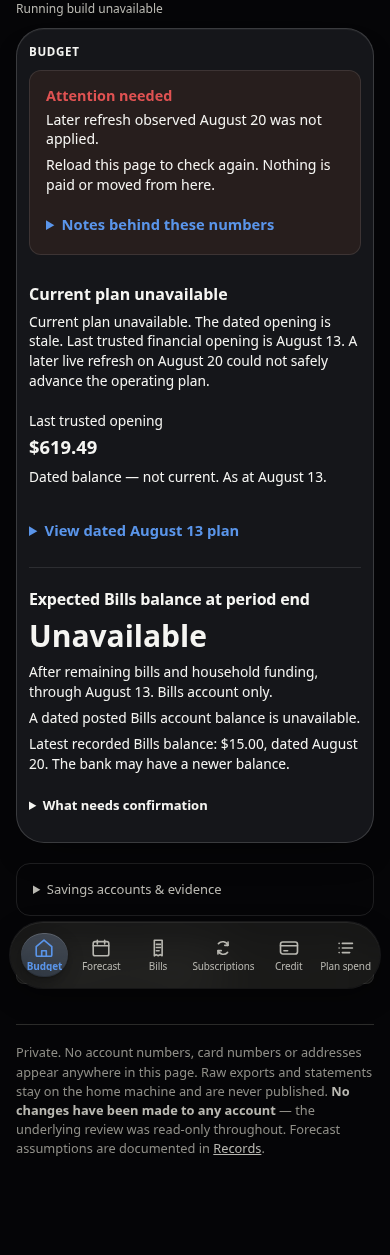
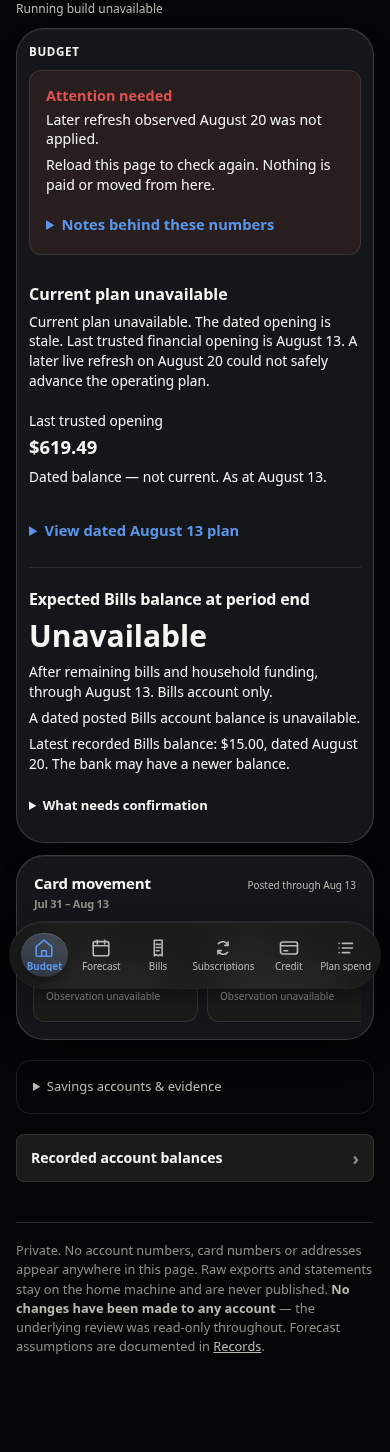
Show card movement as its own Budget bento tile.
Wrap the published strip after the hero without changing its hooks,
labels, or fail-closed wording, and record the fixture placement.

diff --git a/test/browser-budget-blend-proof.js b/test/browser-budget-blend-proof.js
@@ -51,7 +51,7 @@ const composite = (fg, bg) => {
       await page.addInitScript(chosen => {
         try { localStorage.setItem('hfd-theme', chosen); } catch (e) {}
       }, theme);
-      let data = fx.served(options || {});
+      let data = options && options.data ? options.data : fx.served(options || {});
       page.on('pageerror', err => errors.push(`${width}/${theme}: ${err.message}`));
       await page.route('**/*', route => {
         const u = new URL(route.request().url());
@@ -237,6 +237,37 @@ const composite = (fg, bg) => {
     await unavailable.close();
     await unavailableDark.close();
 
+    const cards = require('./fixtures/card-period-movements-data');
+    for (const [width, theme, file] of [
+      [1440, 'light', 'budget-blend-cards-1440-light.png'],
+      [320, 'dark', 'budget-blend-cards-320-dark.png'],
+    ]) {
+      const page = await open(width, theme, { data: cards.served() });
+      const placement = await page.evaluate(() => {
+        const strip = document.querySelector('[data-budget-card-movements]');
+        const tile = strip && strip.closest('.budget-blend-card-movements');
+        const grid = document.querySelector('.budget-surface-grid');
+        const browse = document.querySelector('.budget-browse-grid');
+        const style = strip ? getComputedStyle(strip) : null;
+        return {
+          tile: !!tile,
+          after: !!(grid && strip && (grid.compareDocumentPosition(strip) & Node.DOCUMENT_POSITION_FOLLOWING)),
+          before: !!(browse && strip && (strip.compareDocumentPosition(browse) & Node.DOCUMENT_POSITION_FOLLOWING)),
+          border: style && style.borderTopWidth,
+          background: style && style.backgroundColor,
+          label: strip ? strip.getAttribute('aria-label') : '',
+        };
+      });
+      if (!placement.tile || !placement.after || !placement.before
+        || placement.border !== '0px' || placement.background !== 'rgba(0, 0, 0, 0)'
+        || placement.label !== 'Card movement in selected pay period') {
+        errors.push(`card tile ${file} ${JSON.stringify(placement)}`);
+      }
+      await page.screenshot({ path: path.join(outDir, file), fullPage: true, animations: 'disabled' });
+      shots.push(file);
+      await page.close();
+    }
+
     const failedContrast = contrasts.filter(row => row.pass === false || row.missing);
     if (failedContrast.length) errors.push(`contrast ${JSON.stringify(failedContrast)}`);
     if (external.length) errors.push(`external requests ${external.join(',')}`);
@@ -244,6 +275,7 @@ const composite = (fg, bg) => {
     const receipt = {
       proof: 'budget-blend-visual',
       fixture: 'test/fixtures/budget-surface-data.js',
+      cardMovementFixture: 'test/fixtures/card-period-movements-data.js',
       liveSite: false,
       chrome: process.env.CHROME_PATH || null,
       reducedMotion: true,

diff --git a/docs/proof/BUDGET_REDESIGN_VISUAL.md b/docs/proof/BUDGET_REDESIGN_VISUAL.md
@@ -6,6 +6,8 @@ Fixture browser proof for the pay-period Budget bento. Every shot uses `test/fix
 
 The hero keeps the published equation in source order: Income, Bills, Balance after bills, Household budget, then Balance After Deductions, with Planned Savings on the same waterfall. Current balance stays the Bills-account figure. Expected Bills balance at period end keeps its own slot, including the Estimated stamp. The payday tile is the existing window progress (Day 7 of 14, next payday). Household budget and Bills are the existing browse sections. Saving for is the existing goals block. Unavailable, estimated, and To confirm wording stays on the page.
 
+Card movement, merged in #546, sits in its own glass tile after the hero and before Household and Bills. The strip keeps its published label, hooks, and fail-closed words. The strip element itself stays transparent with no border. `budget-blend-cards-1440-light.png` and `budget-blend-cards-320-dark.png` use `test/fixtures/card-period-movements-data.js`. The other shots use the Budget surface fixture, which does not publish that strip.
+
 Household sits left of Bills because that is the source order of those sections, so keyboard focus moves left to right. The prototype draws Bills on the left; swapping the tiles would focus the right-hand tile first.
 
 ## How it was run
@@ -16,7 +18,7 @@ CHROME_PATH=/usr/bin/google-chrome node test/browser-budget-blend-proof.js
 
 Playwright served `public/` at `http://budget.test/` and aborted every other origin. `prefers-reduced-motion: reduce` was on. Light and dark used the existing `hfd-theme` / `data-theme` mechanism. Viewports were 1440, 390, and 320. One fail-closed packet (`unavailablePlan`) was shot in light at 1440 and dark at 390.
 
-`test/browser-budget-v3-period.js` also passed at 1440, 390, and 320 on this head: one overview card, static today column, no horizontal scroll, and the same published figures.
+`test/browser-budget-v3-period.js` also passed at 1440, 390, and 320 on this head: one overview card, static today column, no horizontal scroll, and the same published figures. `node test/test-card-period-movements.js` and `node test/browser-card-period-movements.js` passed after the tile wrapper. Those tests own the card-movement behavior. This proof only checks that the published strip sits in the tile, after the period grid and before Household and Bills.
 
 ## Contrast and focus
 
